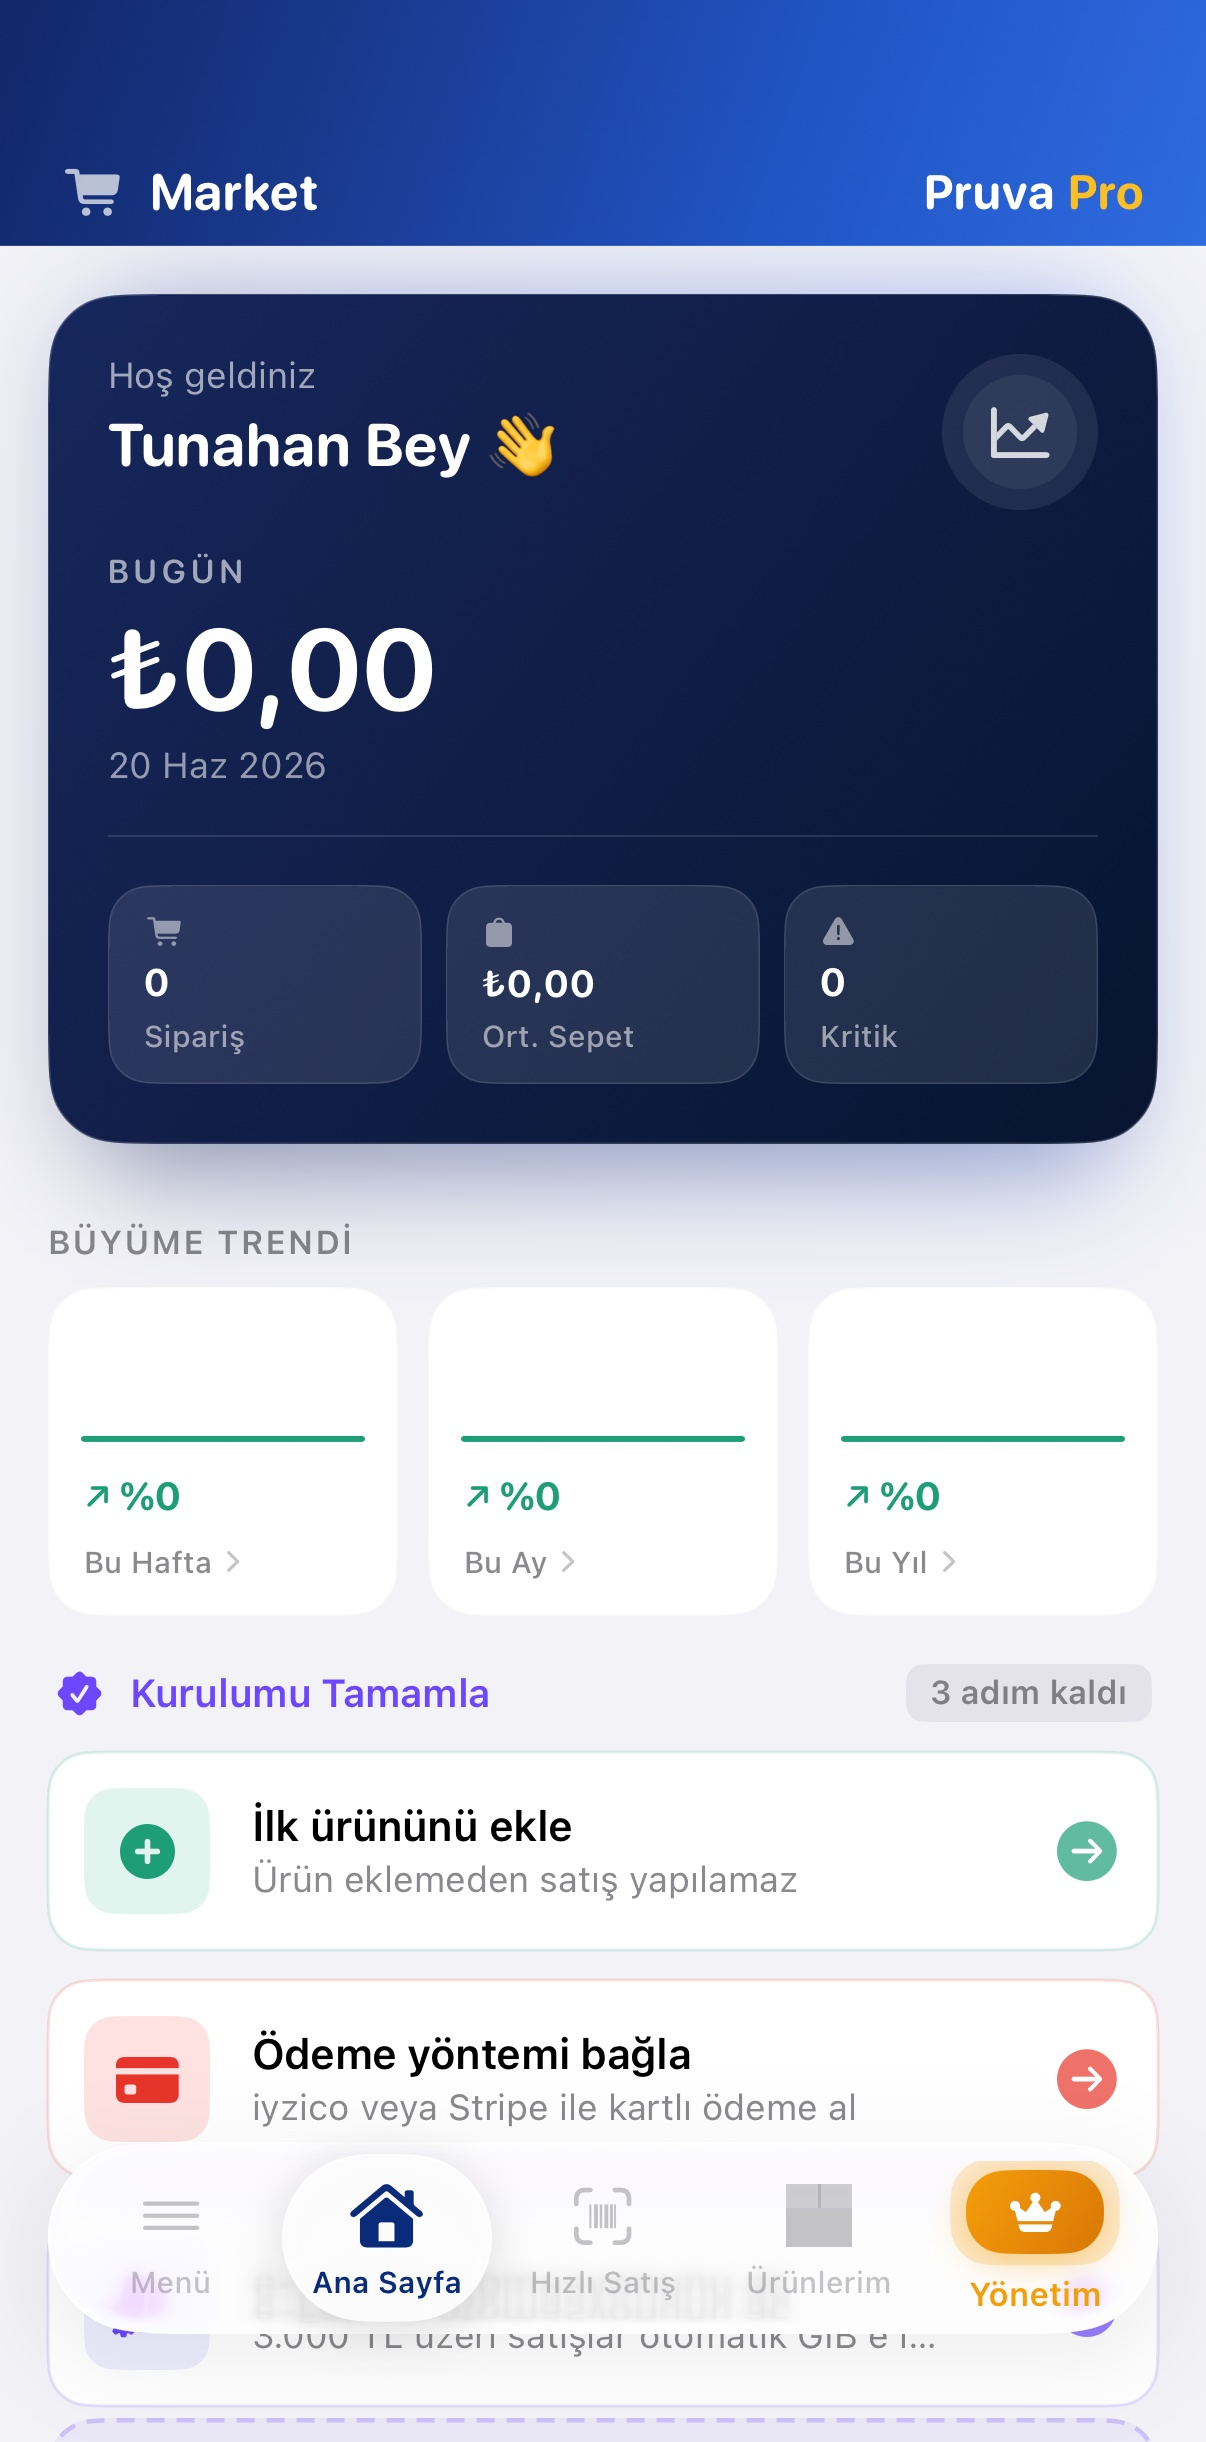
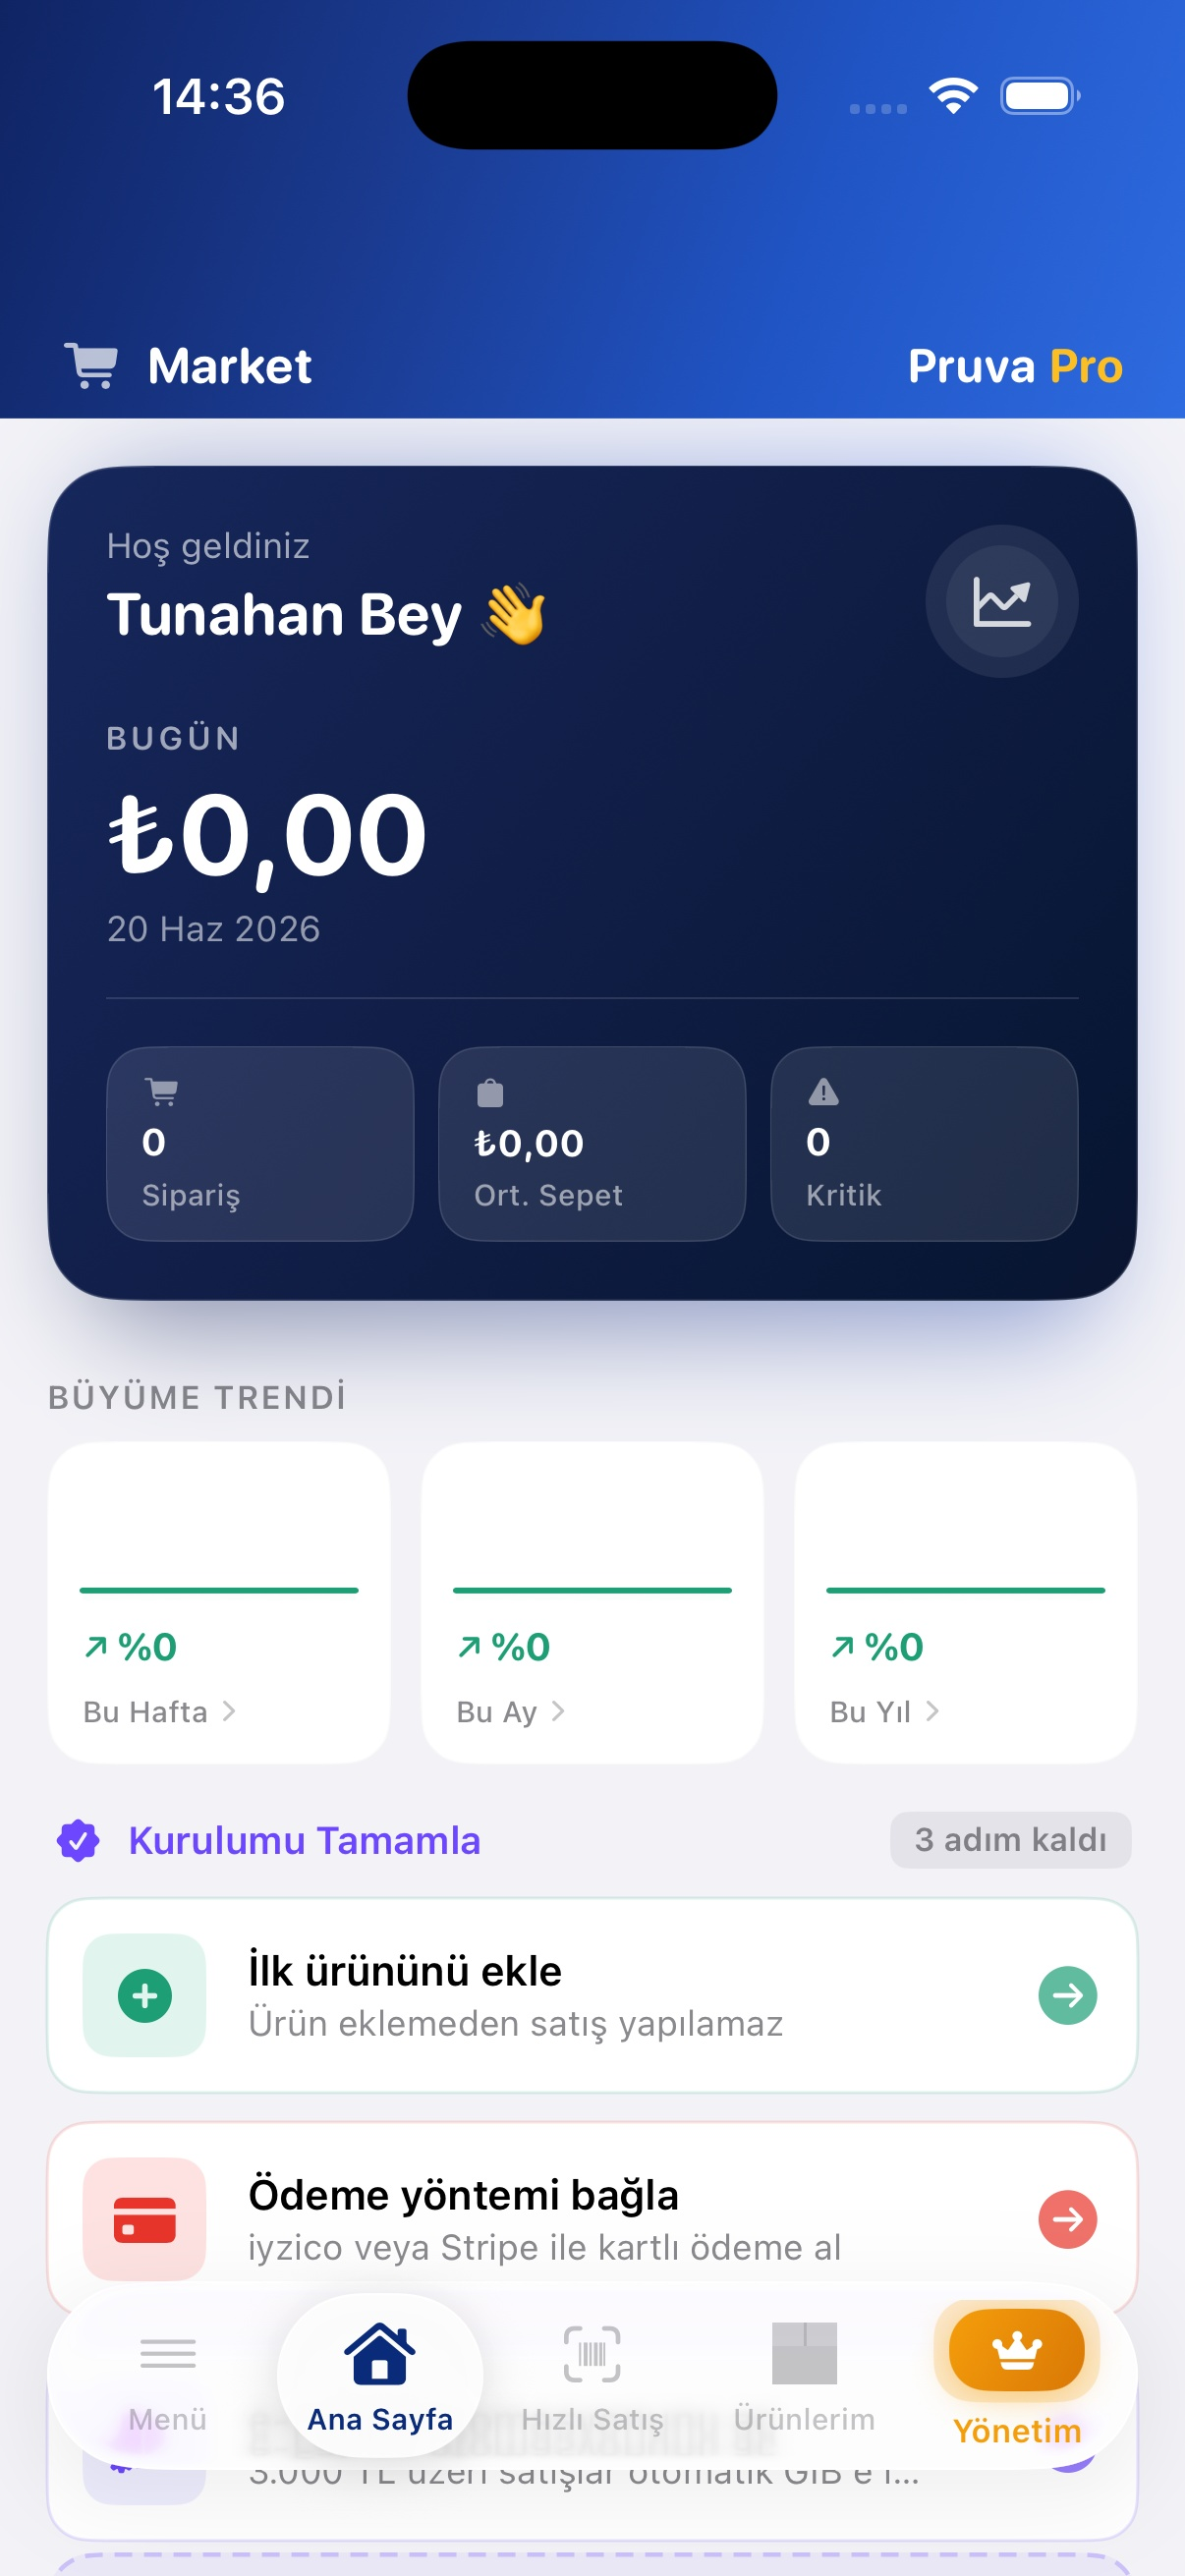
Hero telefon: sahte çerçeve/notch kaldırıldı, gerçek ekran görüntüsü tam/kırpılmadan, sadece köşeler iPhone kavisinde
Fotoğrafın kendi status bar'ı/dynamic island'ı ve alt tab bar'ı zaten var,
ekstra .phone-3d bezel + .phone-notch katmanına gerek yoktu - bu da
oranları ve kenar boşluklarını bozuyordu. Artık tek bir <img> (.phone-shot),
genişlik sabit yükseklik fotoğrafın gerçek oranına göre otomatik,
border-radius ile sadece köşeler yuvarlatılmış.

diff --git a/index.html b/index.html
@@ -7042,14 +7042,11 @@ nav.solid{background:rgba(3,7,18,0.8);backdrop-filter:blur(24px);border-bottom:1
 /* ─── HERO PHONE ─── */
 .phone-scene{margin-top:80px;position:relative;opacity:0;animation:up 1s .8s ease forwards}
 .phone-glow-outer{position:absolute;inset:-60px;background:radial-gradient(ellipse at 50% 70%,rgba(85,56,232,0.25) 0%,transparent 70%);filter:blur(20px);pointer-events:none}
-.phone-3d{width:290px;height:629px;border-radius:46px;background:#13072E;border:1px solid rgba(255,255,255,0.13);box-shadow:0 60px 120px rgba(0,0,0,.75),0 0 0 1px rgba(85,56,232,.25),inset 0 1px 0 rgba(255,255,255,.09);position:relative;overflow:hidden;transform-style:preserve-3d;transition:transform .1s ease-out}
-.phone-3d::before{content:'';position:absolute;inset:0;background:linear-gradient(135deg,rgba(255,255,255,.07) 0%,transparent 50%);pointer-events:none;z-index:20}
-/* dynamic island */
-.phone-notch{position:absolute;top:10px;left:50%;transform:translateX(-50%);width:116px;height:34px;background:#000;border-radius:50px;z-index:25;display:flex;align-items:center;justify-content:flex-end;padding-right:10px;gap:6px;box-shadow:0 0 0 1.5px rgba(255,255,255,.07),0 4px 12px rgba(0,0,0,.6)}
-.notch-cam{width:11px;height:11px;border-radius:50%;background:#0d0d0d;border:1px solid rgba(255,255,255,.08);position:relative}
-.notch-cam::after{content:'';position:absolute;top:50%;left:50%;transform:translate(-50%,-50%);width:4px;height:4px;border-radius:50%;background:rgba(255,255,255,.07)}
-
-.phone-screen{position:absolute;inset:0;border-radius:46px;overflow:hidden;background:#0A0E1A}
+/* Gerçek ekran görüntüsü, tam/kırpılmadan — sadece köşeler iPhone kavisinde.
+   Genişlik sabit, yükseklik fotoğrafın kendi oranına göre otomatik. */
+.phone-shot{width:290px;height:auto;display:block;border-radius:46px;
+  box-shadow:0 60px 120px rgba(0,0,0,.75),0 0 0 1px rgba(85,56,232,.25);
+  position:relative;transform-style:preserve-3d;transition:transform .1s ease-out}
 
 /* iOS STATUS BAR */
 .ios-bar{height:44px;display:flex;align-items:flex-end;justify-content:space-between;padding:0 24px 6px;position:relative;z-index:10}
@@ -7399,8 +7396,7 @@ footer{position:relative;z-index:1;padding:48px 60px;border-top:1px solid rgba(2
   .btn-glow,.btn-ghost{width:100%;max-width:320px;text-align:center}
 
   .phone-scene{margin-top:48px}
-  .phone-3d{width:240px;height:520px;border-radius:38px}
-  .phone-screen{border-radius:32px}
+  .phone-shot{width:240px;border-radius:38px}
   .ios-tabbar{height:52px}
 
   .stats-strip{padding:0 20px}
@@ -7706,17 +7702,12 @@ html[dir="rtl"] .pc-feats{padding-right:0}
     <button class="btn-ghost" onclick="document.getElementById('demo').scrollIntoView({behavior:'smooth'})" data-i18n="hero.btnHow">How does it work? →</button>
   </div>
 
-  <!-- HERO PHONE -->
+  <!-- HERO PHONE: gerçek simülatör ekran görüntüsü tam/kırpılmadan, sadece
+       köşeler iPhone kavisinde — ekstra çerçeve/notch yok, fotoğrafın
+       kendi status bar'ı/dynamic island'ı zaten var -->
   <div class="phone-scene" id="heroPhone">
     <div class="phone-glow-outer"></div>
-    <div class="phone-3d" id="phone3d">
-      <div class="phone-notch">
-        <div class="notch-cam"></div>
-      </div>
-      <div class="phone-screen">
-        <img src="hero-phone-screen.jpg" alt="Pruva Business" style="width:100%;height:100%;object-fit:cover;object-position:top;display:block">
-      </div>
-    </div>
+    <img class="phone-shot" id="phone3d" src="hero-phone-screen.jpg" alt="Pruva Business">
   </div>
 
   <div class="scroll-hint">